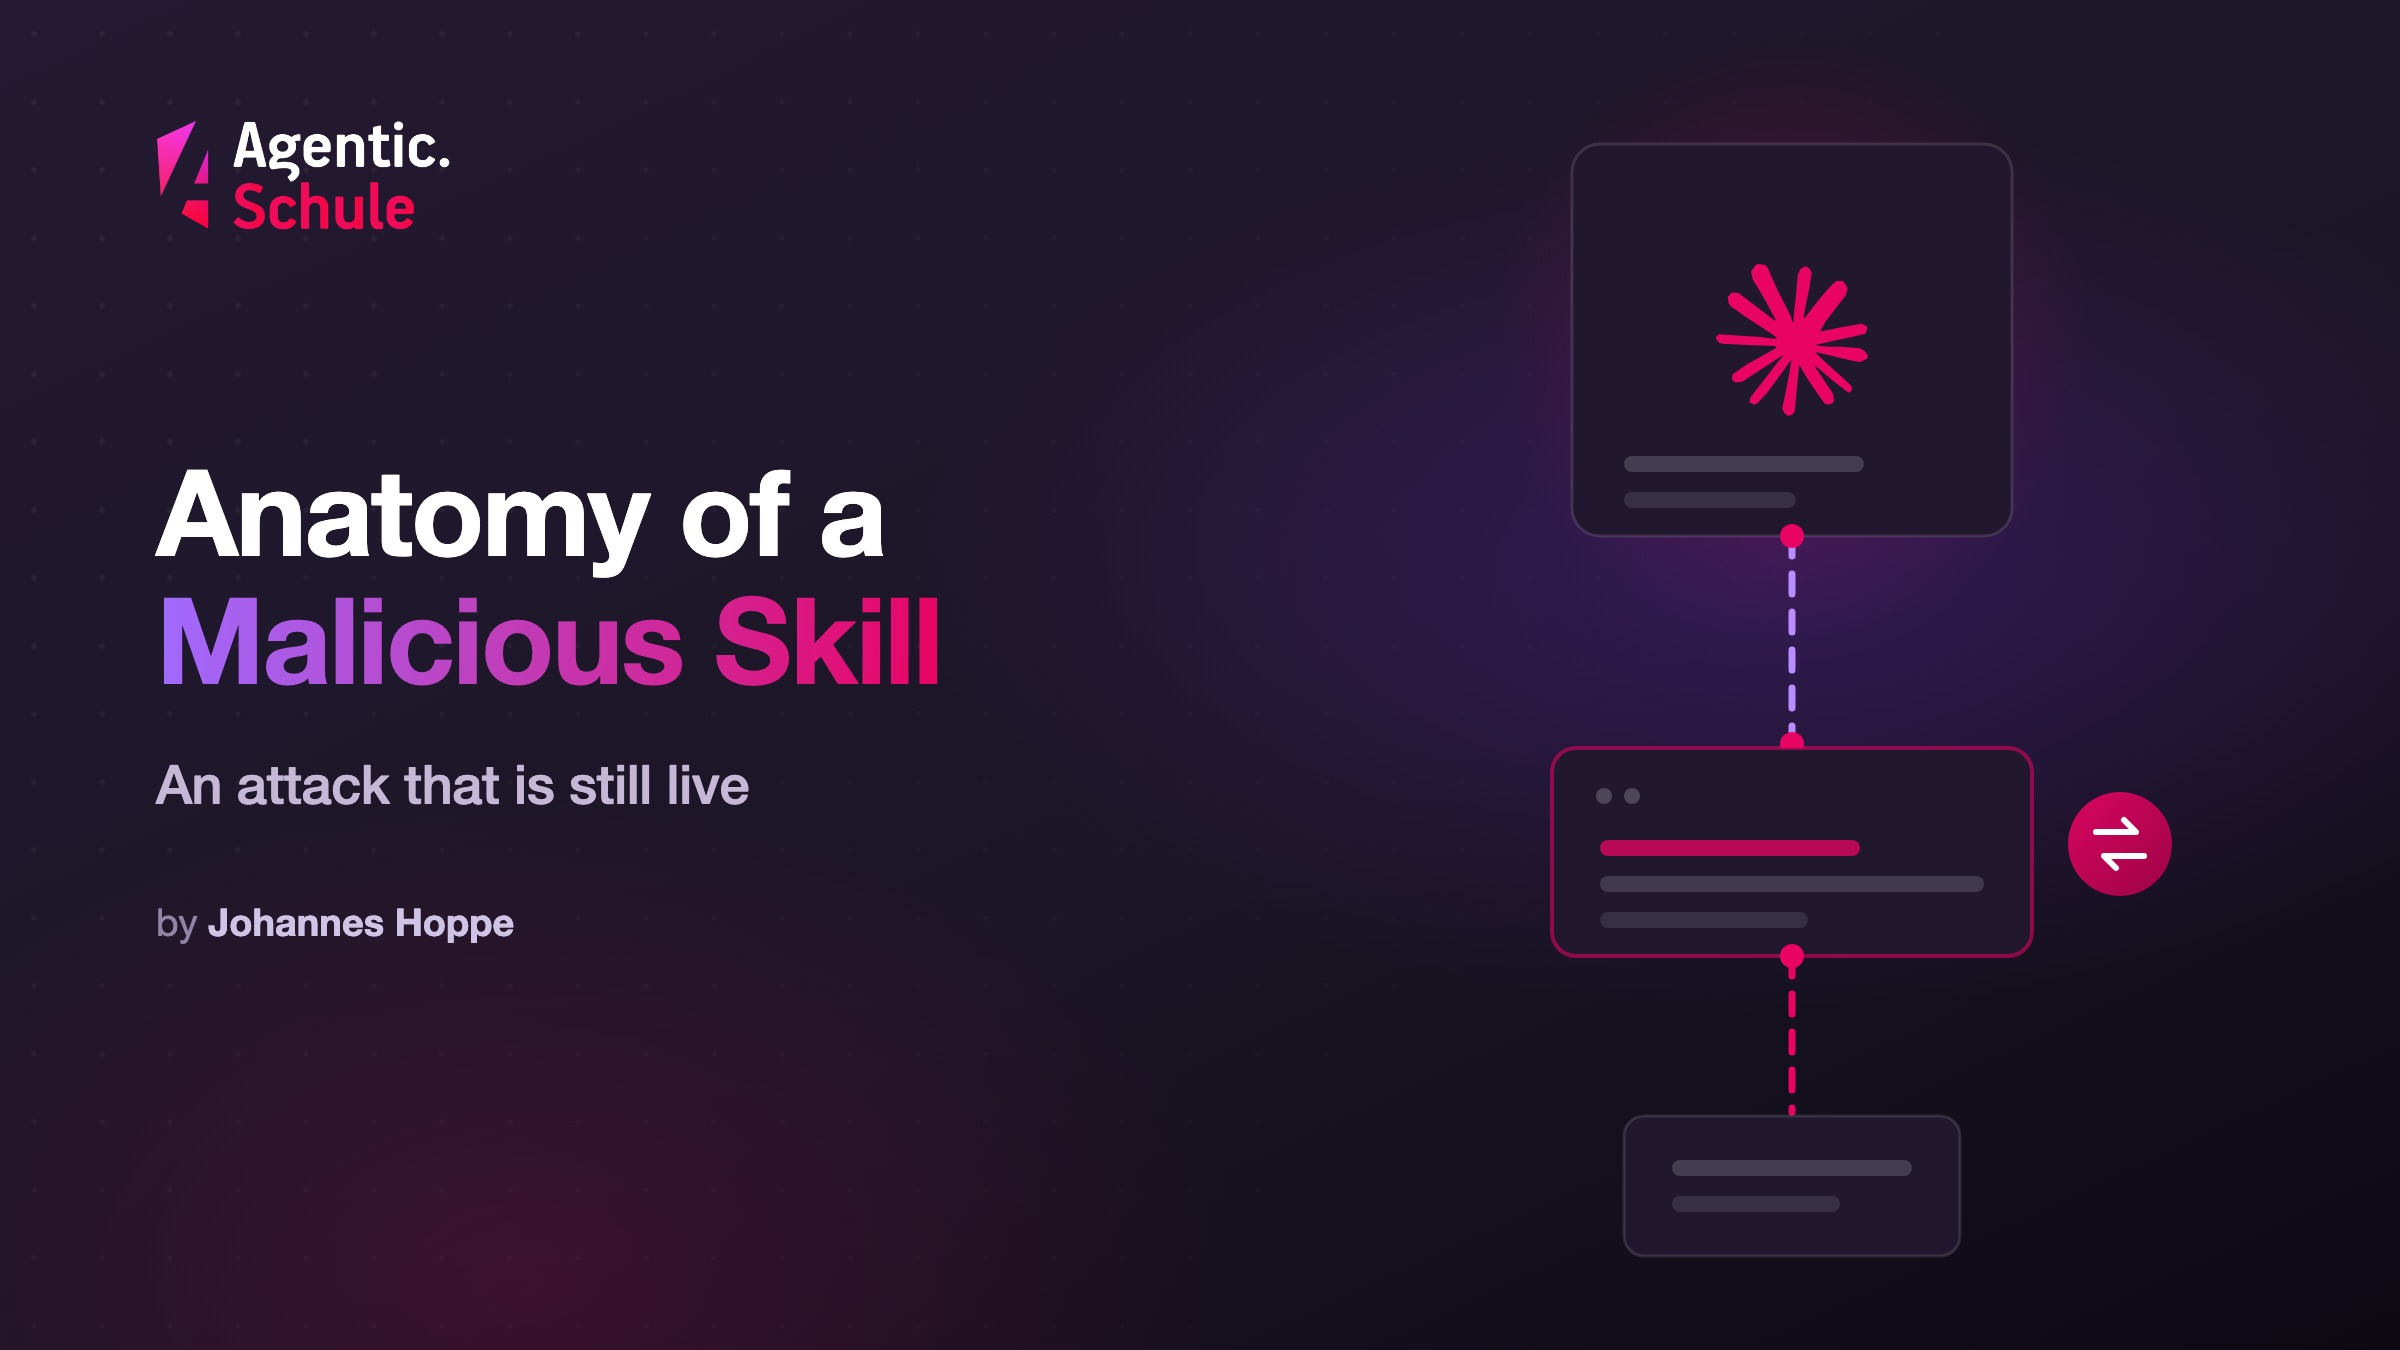
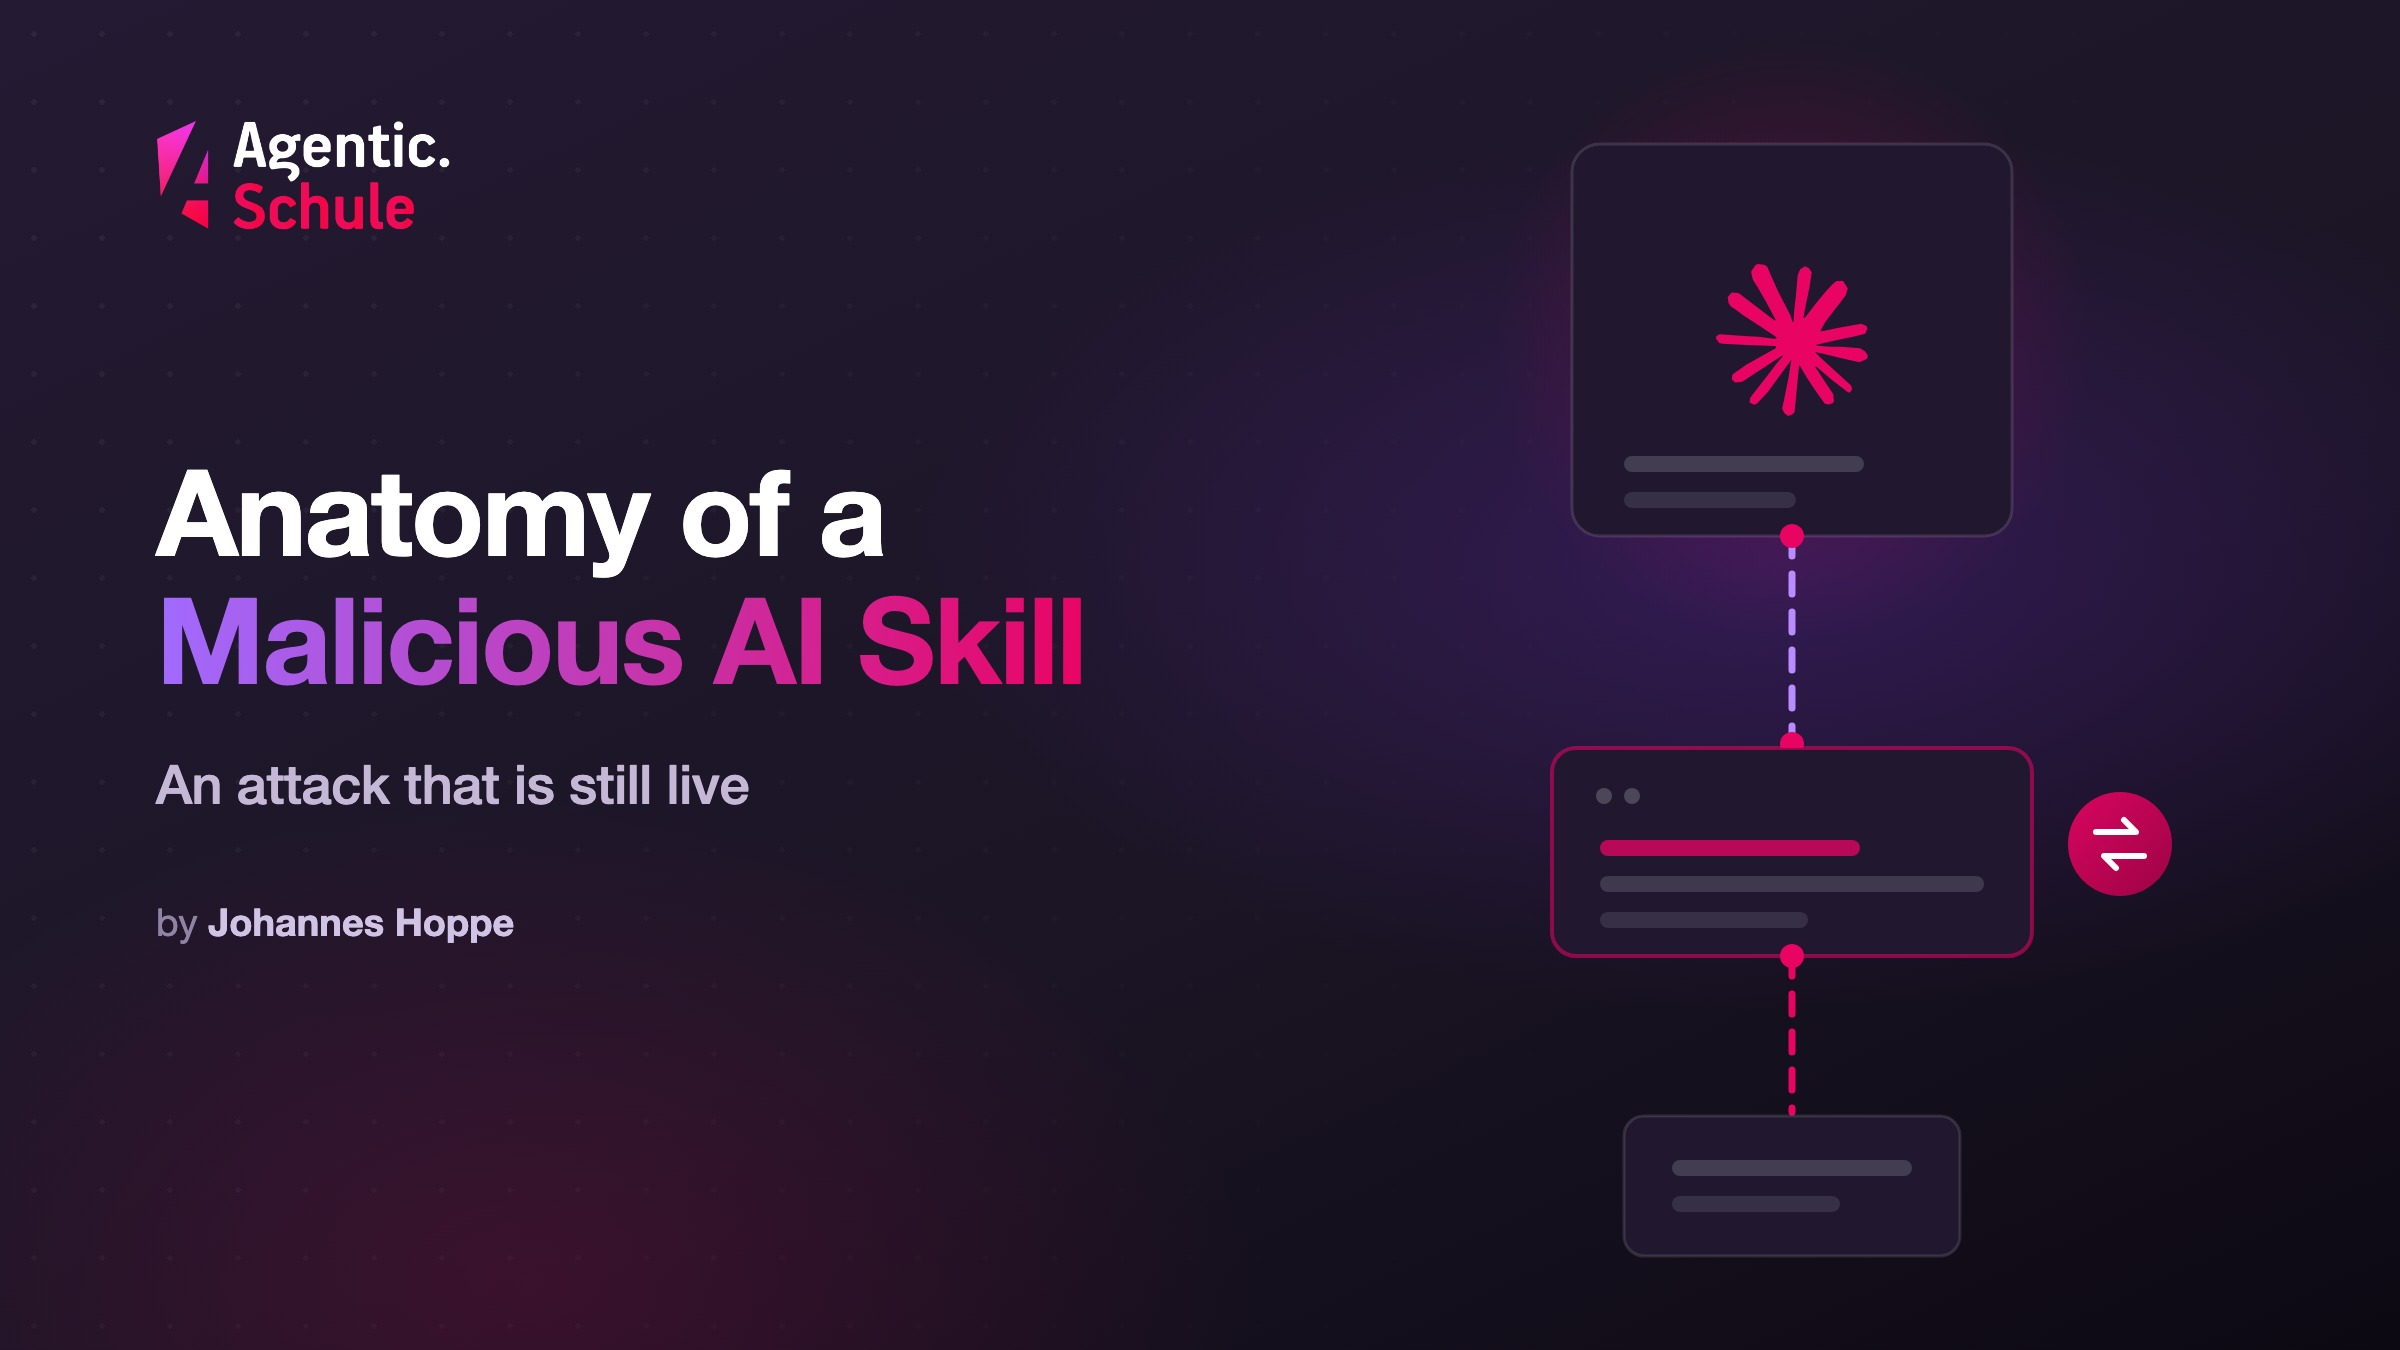
AI-Schärfung (Variante A): „AI" in Titeln, Untertiteln und Teasern (#25)
Der Marken-Buzzword „AI" wird dort gesetzt, wo er den Haken schärft, nicht
flächendeckend:
- Titel/Heading: „Malicious AI Skill" (Tag 1); „AI Agent" bei Loop Engineering
  (Tag 5) und Agent-Recherche (Tag 8); DE mit „AI-Agent"/„AI-Skill".
- Untertitel und Reel-Teaser: generische „agent(s)"/„KI-Agenten" zu
  „AI agent(s)"/„AI-Agenten" geschärft (Agent-Recherche, Graph, Mac mini,
  git worktrees) — passend zur „AI-Agenten"-Konvention aus der Schreibrichtlinie.

Lese- und Reel-Banner jeweils neu gerendert und einzeln geprüft. Artikel, die
den AI-Bezug schon über „Agentic"/„Claude Code"/„Vibe Coding"/„Prompt & Context
Engineering" tragen, bleiben unverändert.

Changed region(s): [[0.2812, 0.4356, 0.4688, 0.5289]]

diff --git a/blog/2026-09-agent-recherche-playwright-mcp-EN/header-reel.src.html b/blog/2026-09-agent-recherche-playwright-mcp-EN/header-reel.src.html
@@ -41,13 +41,13 @@
   <div class="top">
     <div class="kicker">Day 8/30</div>
     <h1>Locked out?<br><span class="accent">Not anymore.</span></h1>
-    <div class="sub">Your own Playwright MCP<br>for your agent’s research</div>
+    <div class="sub">Your own Playwright MCP<br>for your AI agent’s research</div>
   </div>
   <div class="edge t"></div>
   <div class="video"></div>
   <div class="edge b"></div>
   <div class="bottom">
-    <div class="teaser">Blocked from research? Give your agent its own browser.</div>
+    <div class="teaser">Blocked from research? Give your AI agent its own browser.</div>
   </div>
 </body>
 </html>

diff --git a/blog/2026-09-boeswillige-skills-EN/header-reel.src.html b/blog/2026-09-boeswillige-skills-EN/header-reel.src.html
@@ -40,14 +40,14 @@
   <img class="logo" src="logo-agentic-schule.png" alt="agentic.schule">
   <div class="top">
     <div class="kicker">Day 1/30</div>
-    <h1>Anatomy of a<br><span class="accent">Malicious Skill</span></h1>
+    <h1>Malicious<br><span class="accent">AI Skill</span></h1>
     <div class="sub">An attack that is still live</div>
   </div>
   <div class="edge t"></div>
   <div class="video"></div>
   <div class="edge b"></div>
   <div class="bottom">
-    <div class="teaser">A harmless skill. A hijacked computer.</div>
+    <div class="teaser">A harmless AI skill?<br>A hijacked computer!</div>
   </div>
 </body>
 </html>

diff --git a/blog/2026-09-boeswillige-skills-DE/header.src.html b/blog/2026-09-boeswillige-skills-DE/header.src.html
@@ -38,7 +38,7 @@
   <img class="brand" src="logo-agentic-schule.png" alt="agentic.schule">
   <div class="wrap">
     <div class="left">
-      <h1>Analyse eines<br><span class="accent">böswilligen Skills</span></h1>
+      <h1>Analyse eines<br><span class="accent">böswilligen AI-Skills</span></h1>
       <div class="sub">Ein Angriff, der bis heute aktiv ist</div>
       <div class="by">von <b>Johannes Hoppe</b></div>
     </div>

diff --git a/blog/2026-09-boeswillige-skills-EN/header.src.html b/blog/2026-09-boeswillige-skills-EN/header.src.html
@@ -38,7 +38,7 @@
   <img class="brand" src="logo-agentic-schule.png" alt="agentic.schule">
   <div class="wrap">
     <div class="left">
-      <h1>Anatomy of a<br><span class="accent">Malicious Skill</span></h1>
+      <h1>Anatomy of a<br><span class="accent">Malicious AI Skill</span></h1>
       <div class="sub">An attack that is still live</div>
       <div class="by">by <b>Johannes Hoppe</b></div>
     </div>

diff --git a/blog/2026-09-graph-engineering-EN/header-reel.src.html b/blog/2026-09-graph-engineering-EN/header-reel.src.html
@@ -41,7 +41,7 @@
   <div class="top">
     <div class="kicker">Day 6/30</div>
     <h1>Graph<br><span class="accent">Engineering</span></h1>
-    <div class="sub">Plenty of hype around an old principle:<br>orchestrating parallel agents</div>
+    <div class="sub">Plenty of hype around an old principle:<br>orchestrating parallel AI agents</div>
   </div>
   <div class="edge t"></div>
   <div class="video"></div>

diff --git a/blog/2026-09-graph-engineering-EN/header.src.html b/blog/2026-09-graph-engineering-EN/header.src.html
@@ -39,7 +39,7 @@
   <div class="wrap">
     <div class="left">
       <h1>Graph<br><span class="accent">Engineering</span></h1>
-      <div class="sub">Plenty of hype around an old principle:<br>orchestrating parallel agents</div>
+      <div class="sub">Plenty of hype around an old principle:<br>orchestrating parallel AI agents</div>
       <div class="by">by <b>Johannes Hoppe</b></div>
     </div>
   </div>

diff --git a/blog/2026-09-agent-recherche-playwright-mcp-DE/header.src.html b/blog/2026-09-agent-recherche-playwright-mcp-DE/header.src.html
@@ -39,7 +39,7 @@
   <div class="wrap">
     <div class="left">
       <h1>Ausgesperrt?<br><span class="accent">Nicht mehr.</span></h1>
-      <div class="sub">Ein eigener Playwright-MCP<br>für die Recherche deines Agenten</div>
+      <div class="sub">Ein eigener Playwright-MCP<br>für die Recherche deines AI-Agenten</div>
       <div class="by">von <b>Johannes Hoppe</b></div>
     </div>
   </div>

diff --git a/blog/2026-09-graph-engineering-DE/header.src.html b/blog/2026-09-graph-engineering-DE/header.src.html
@@ -39,7 +39,7 @@
   <div class="wrap">
     <div class="left">
       <h1>Graph<br><span class="accent">Engineering</span></h1>
-      <div class="sub">Viel Hype um ein altes Prinzip:<br>parallele Agenten orchestrieren</div>
+      <div class="sub">Viel Hype um ein altes Prinzip:<br>parallele AI-Agenten orchestrieren</div>
       <div class="by">von <b>Johannes Hoppe</b></div>
     </div>
   </div>

diff --git a/blog/2026-09-agent-recherche-playwright-mcp-EN/header.src.html b/blog/2026-09-agent-recherche-playwright-mcp-EN/header.src.html
@@ -39,7 +39,7 @@
   <div class="wrap">
     <div class="left">
       <h1>Locked out?<br><span class="accent">Not anymore.</span></h1>
-      <div class="sub">Your own Playwright MCP<br>for your agent's research</div>
+      <div class="sub">Your own Playwright MCP<br>for your AI agent's research</div>
       <div class="by">by <b>Johannes Hoppe</b></div>
     </div>
   </div>

diff --git a/blog/2026-09-agentic-coding-mac-mini-DE/header.src.html b/blog/2026-09-agentic-coding-mac-mini-DE/header.src.html
@@ -45,7 +45,7 @@
   <div class="wrap">
     <div class="left">
       <h1>Agentic&nbsp;Coding<br><span class="accent">rund um die Uhr</span></h1>
-      <div class="sub">Der Mac mini als Bodenstation für KI-Agenten</div>
+      <div class="sub">Der Mac mini als Bodenstation für AI-Agenten</div>
       <div class="by">von <b>Johannes Hoppe</b></div>
     </div>
   </div>

diff --git a/blog/2026-09-agentic-coding-git-worktrees-DE/header.src.html b/blog/2026-09-agentic-coding-git-worktrees-DE/header.src.html
@@ -43,7 +43,7 @@
   <div class="wrap">
     <div class="left">
       <h1>Ein&nbsp;Stamm,<br><span class="accent">viele Äste</span></h1>
-      <div class="sub">git worktrees für parallele KI-Agenten</div>
+      <div class="sub">git worktrees für parallele AI-Agenten</div>
       <div class="by">von <b>Johannes Hoppe</b></div>
     </div>
   </div>

diff --git a/blog/2026-09-loop-engineering-EN/header-reel.src.html b/blog/2026-09-loop-engineering-EN/header-reel.src.html
@@ -47,7 +47,7 @@
   <div class="video"></div>
   <div class="edge b"></div>
   <div class="bottom">
-    <div class="teaser">The agent that sends itself back to work.</div>
+    <div class="teaser">The AI agent that sends itself back to work.</div>
   </div>
 </body>
 </html>
